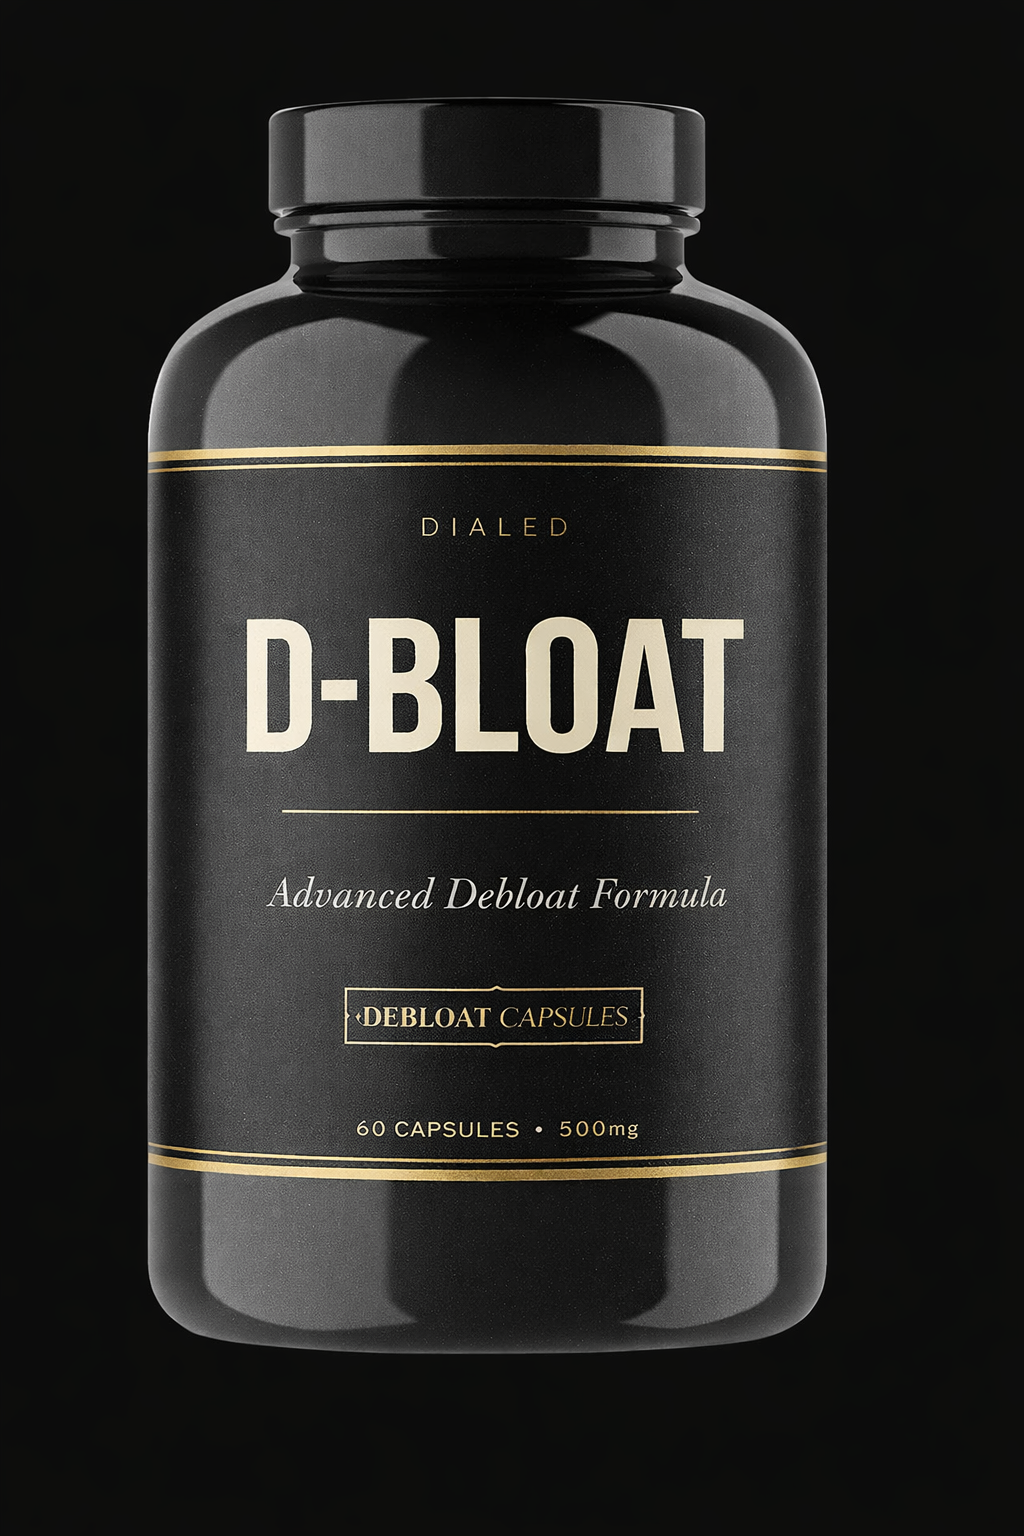
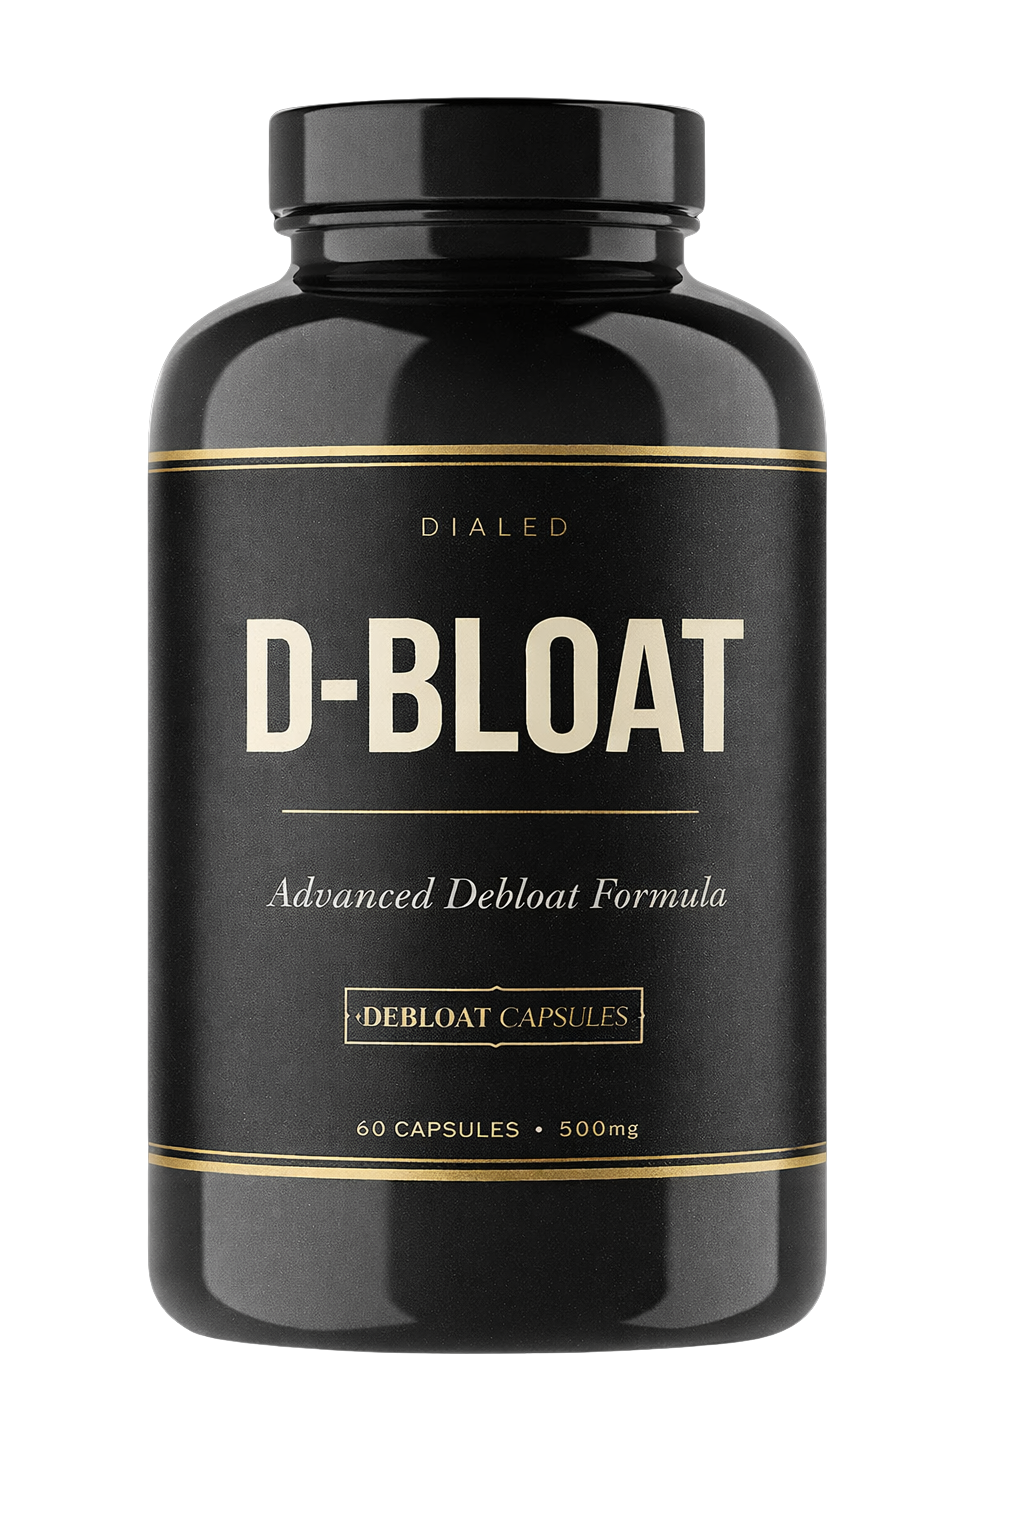
Transparent bottle image + mobile responsive layout

diff --git a/index.html b/index.html
@@ -131,9 +131,8 @@ nav.scrolled {
 .hero-bottle {
   width: 100%;
   max-width: 420px;
-  filter: drop-shadow(0 40px 80px rgba(0,0,0,0.9));
+  filter: drop-shadow(0 40px 80px rgba(0,0,0,0.7));
   animation: floatBottle 6s ease-in-out infinite;
-  mix-blend-mode: screen;
 }
 @keyframes floatBottle {
   0%, 100% { transform: translateY(0); }
@@ -786,6 +785,74 @@ footer {
   font-size: 8px;
   letter-spacing: 2px;
   color: #2a2a2a;
+}
+/* ================================
+   MOBILE RESPONSIVE
+================================ */
+@media (max-width: 900px) {
+  nav {
+    padding: 0 24px;
+  }
+  .nav-links { display: none; }
+
+  #hero {
+    grid-template-columns: 1fr;
+    padding: 100px 24px 60px;
+    gap: 40px;
+    text-align: center;
+  }
+  .hero-image-wrap {
+    order: -1;
+  }
+  .hero-bottle {
+    max-width: 280px;
+  }
+  .hero-title { font-size: 72px; }
+  .hero-rule { margin: 0 auto; }
+  .hero-stars { justify-content: center; }
+
+  #trust-bar { padding: 16px 24px; }
+  .trust-bar-inner { grid-template-columns: repeat(2, 1fr); gap: 0; }
+  .trust-stat { border-right: none; border-bottom: 1px solid var(--border); padding: 16px 0; }
+  .trust-stat:nth-child(odd) { border-right: 1px solid var(--border); }
+  .trust-stat:nth-child(3),
+  .trust-stat:nth-child(4) { border-bottom: none; }
+
+  #benefits { padding: 80px 24px; }
+  .benefits-grid { grid-template-columns: 1fr 1fr; }
+
+  #how { padding: 80px 24px; }
+  .how-grid { grid-template-columns: 1fr; }
+
+  #ingredients { padding: 80px 24px; }
+  .ingredients-grid { grid-template-columns: 1fr 1fr; }
+
+  #reviews { padding: 80px 24px; }
+  .reviews-grid { grid-template-columns: 1fr; }
+
+  #faq { padding: 80px 24px; }
+
+  #final-cta { padding: 100px 24px; }
+  .cta-title { font-size: 56px; }
+
+  footer { padding: 40px 24px; }
+  .footer-inner {
+    flex-direction: column;
+    gap: 20px;
+    text-align: center;
+  }
+  .footer-links { flex-wrap: wrap; justify-content: center; gap: 20px; }
+
+  .section-title { font-size: 48px; }
+}
+
+@media (max-width: 500px) {
+  .hero-title { font-size: 60px; }
+  .benefits-grid { grid-template-columns: 1fr; }
+  .ingredients-grid { grid-template-columns: 1fr; }
+  .trust-bar-inner { grid-template-columns: repeat(2, 1fr); }
+  .purchase-widget { padding: 20px 16px; }
+  .trust-row { flex-direction: column; align-items: center; gap: 8px; }
 }
 </style>
 </head>
